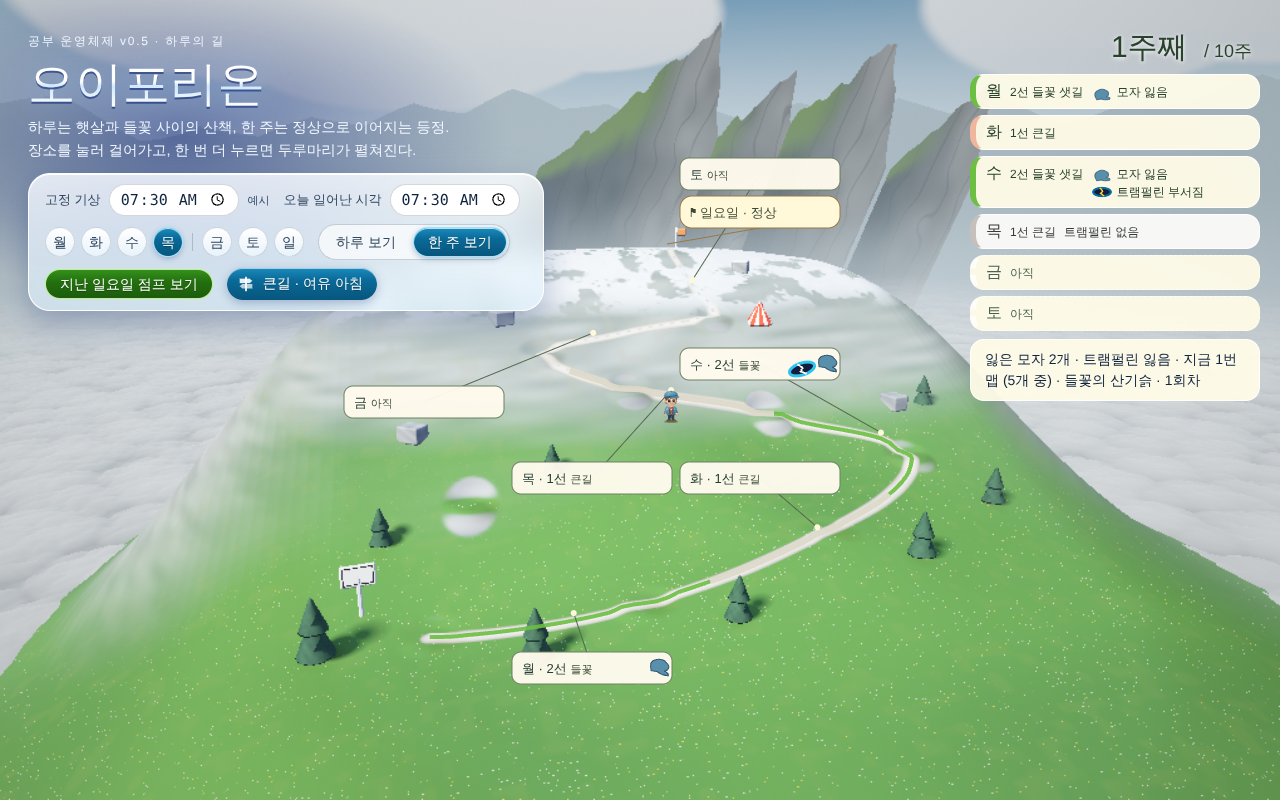
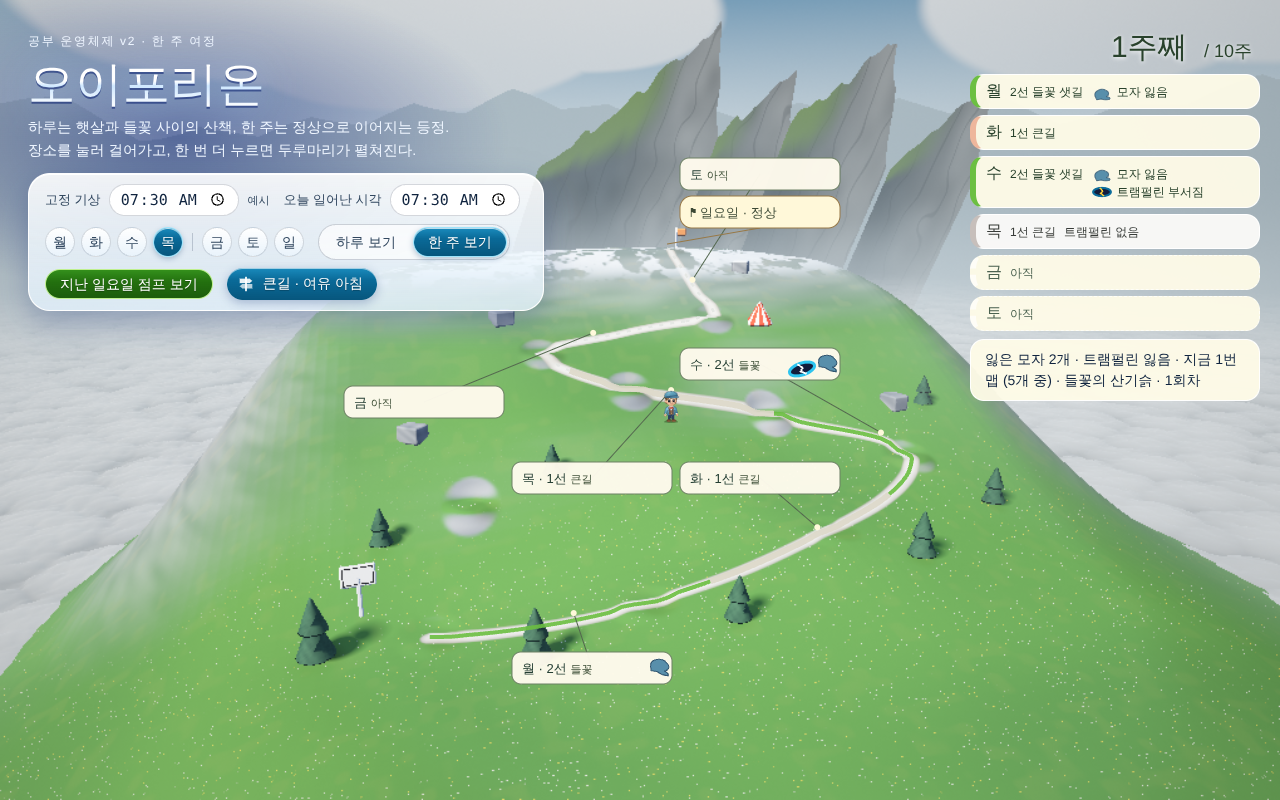
걷기 다시 그리기 절반으로, 1번 맵 정상까지 초록 산기슭
- 걷는 동안 다시 그리기를 초당 30번(느린 기기 20번)까지만:
  출발→오전 한 번에 34회·63만 px → 14회·28만 px, 걷는 시간은 같음
- 1번 맵(들꽃의 산기슭) 바위 시작 11→22, 눈 시작 25.5→30: 정상 평지가
  회백색 바위·눈으로 뭉개지던 것을 풀밭으로. 2~5번 맵은 그대로라 맵을
  넘어갈수록 바위·눈이 늘어난다
- 바위색 한 단계 진하게, 최종 캡처 갱신. 단위 23/23, e2e 27/27

Claude-Session: https://claude.ai/code/session_012m9PvuVkWtJp3oST29ckcm

Changed region(s): [[0.1875, 0.3125, 0.7812, 0.5625], [0.125, 0.0312, 0.1875, 0.0625]]

diff --git a/oiphorion/src/map.js b/oiphorion/src/map.js
@@ -168,9 +168,9 @@ const ROCKS=[[-15,-13],[29,-24],[41,9],[-29,7]];
 const TENT=[25.5,-6.8], SIGN=[-35,29.5], FLAG=[19.9,-34];
 const CLOUD_Y=-14, CLOUD_AMP=2.4, DOOR=[-63,-11];
 /* 모든 풍경색은 선형 RGB. 지형/길/텍스처를 공유하고 프로그램 상수만 바꾼다. */
-const ALPINE_PALETTE=Object.freeze({grassDark:[.020,.060,.022],grass:[.055,.160,.032],dry:[.130,.190,.045],treeDark:[.010,.032,.023],tree:[.035,.095,.052],rockDark:[.170,.190,.200],rock:[.310,.330,.340],snow:[.660,.740,.810],packed:[.340,.470,.620],fog:[.600,.720,.800]});
+const ALPINE_PALETTE=Object.freeze({grassDark:[.020,.060,.022],grass:[.055,.160,.032],dry:[.130,.190,.045],treeDark:[.010,.032,.023],tree:[.035,.095,.052],rockDark:[.120,.135,.150],rock:[.235,.250,.262],snow:[.660,.740,.810],packed:[.340,.470,.620],fog:[.600,.720,.800]});
 const MAPS=[
-  ['들꽃의 산기슭',8,.82,11,20,25.5,30,'#94af5c',.003],
+  ['들꽃의 산기슭',8,.82,22,33,30,34.5,'#94af5c',.003],
   ['안개 낀 침엽수림',8,.86,10,19,24,29,'#427564',.004],
   ['바람의 바위 능선',6,.90,8,17,21,26,'#8d999d',.003],
   ['푸른 빙하의 길',4,.93,6,15,18,23,'#8bb9cf',.0028],
@@ -1091,7 +1091,7 @@ function walkTo(id){
   const fm=feetMode(), dur=Math.max(fm?600:350,Math.min(fm?1800:1400,total*(fm?28:22))), hopLen=Math.max(fm?6:2.6,total/dur*1000*(fm?.4:.2)), hopH=fm?2.6:.95, t0=performance.now();
   const v=Math.min(2.5,v0*dur/total), ease=k=>v*k+(3-2*v)*k*k+(v-2)*k*k*k;
   maxHop=0;
-  dw.classList.remove("idle"); walking={to:id,pos:pts[0].slice(),vel:[0,0],t:t0};
+  dw.classList.remove("idle"); walking={to:id,pos:pts[0].slice(),vel:[0,0],t:t0,drawn:0};
   const step=now=>{
     const k=Math.min(1,(now-t0)/dur), d=ease(k)*total;
     let i=1; while(i<cum.length-1&&cum[i]<d) i++;
@@ -1100,7 +1100,8 @@ function walkTo(id){
     const a=project([pts[i-1][0],0,pts[i-1][1]]), b=project([pts[i][0],0,pts[i][1]]); dw.classList.toggle("flip",b[0]<a[0]-.01);
     const want=Math.atan2(-(pts[i][0]-pts[i-1][0]),pts[i][1]-pts[i-1][1]); DW.yaw=DW.yaw+(angTo(DW.yaw,want)-DW.yaw)*.18;
     const ph=(d/hopLen)%1, hop=Math.sin(ph*Math.PI)*hopH*(1-Math.pow(1-Math.min(1,k*6),2))*(k>.97?0:1), sq=ph<.12||ph>.88?(fm?1:.8):0;
-    placeDwarf(x,z,hop,sq*(k<.98?1:0),DW.yaw);
+    // 걷는 동안 다시 그리기는 초당 30번(느린 기기면 20번)까지만. 위치는 시간으로 정해지므로 속도는 같고, 도착 자리는 아래에서 꼭 그린다.
+    if(k>=1||!gl||now-walking.drawn>=(QUALITY<1?50:33)){ walking.drawn=now; placeDwarf(x,z,hop,sq*(k<.98?1:0),DW.yaw); }
     if(k<1) walking.raf=requestAnimationFrame(step); else { walking=null; at=id; dw.classList.add("idle"); placeDwarf(NXZ[id][0],NXZ[id][1]); arrived(id); }
   };
   walking.raf=requestAnimationFrame(step);

diff --git a/oiphorion/CLAUDE.md b/oiphorion/CLAUDE.md
@@ -229,6 +229,7 @@ node tools/journey-e2e.cjs                       # 전체 e2e (약 10분). E2E_O
 8. **계속 도는 것은 노트북을 잡아먹는다 (2026-10-23, 민의 노트북 렉).**
    - 소년 둘레의 부분 다시 그리기도 풍경과 같은 무거운 셰이더다. 그래서 숨쉬기·통통 튀기는 도착한 뒤 3~4초만 하고 쉬는 자세로 멈춘다(`DW.settled`).
    - 화면 어디서든 애니메이션이 돌면 `backdrop-filter`가 매 프레임 다시 계산된다. 비눗방울 + 유리 흐림 조합이 가만히 있어도 GPU를 계속 썼다. 그래서 `.glass`의 흐림을 빼고 불투명도를 올렸고, 두루마리를 펼친 동안에는 비눗방울을 멈춘다.
+   - 걷는 동안 다시 그리기는 초당 30번(느린 기기 20번)까지만 한다. 풍경 한 장이 3초를 넘기면 다음부터 픽셀 수를 0.7배로 줄인다(`QUALITY`, localStorage `oi.quality`).
    - 새 무한 애니메이션을 넣을 때는 가만히 둔 채 GPU 사용량을 잰다. 크롬 프로세스 CPU를 보면 된다(SwiftShader에서는 gpu-process).
 7. **선언 순서.** 네 파일이 한 스크립트로 이어지므로 `const`/`let`은 쓰기 전에 선언돼 있어야 한다(`reduce`를 난쟁이 구역 위로 올린 이유).
 
